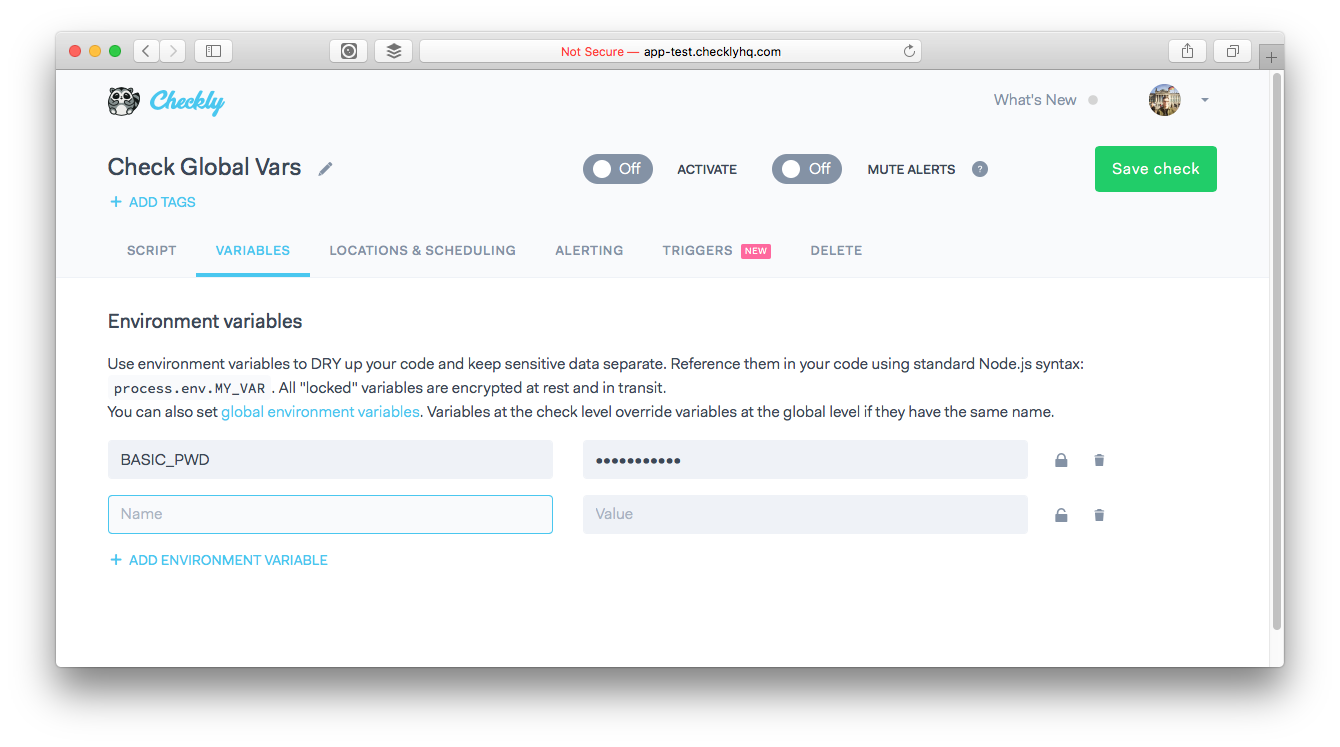
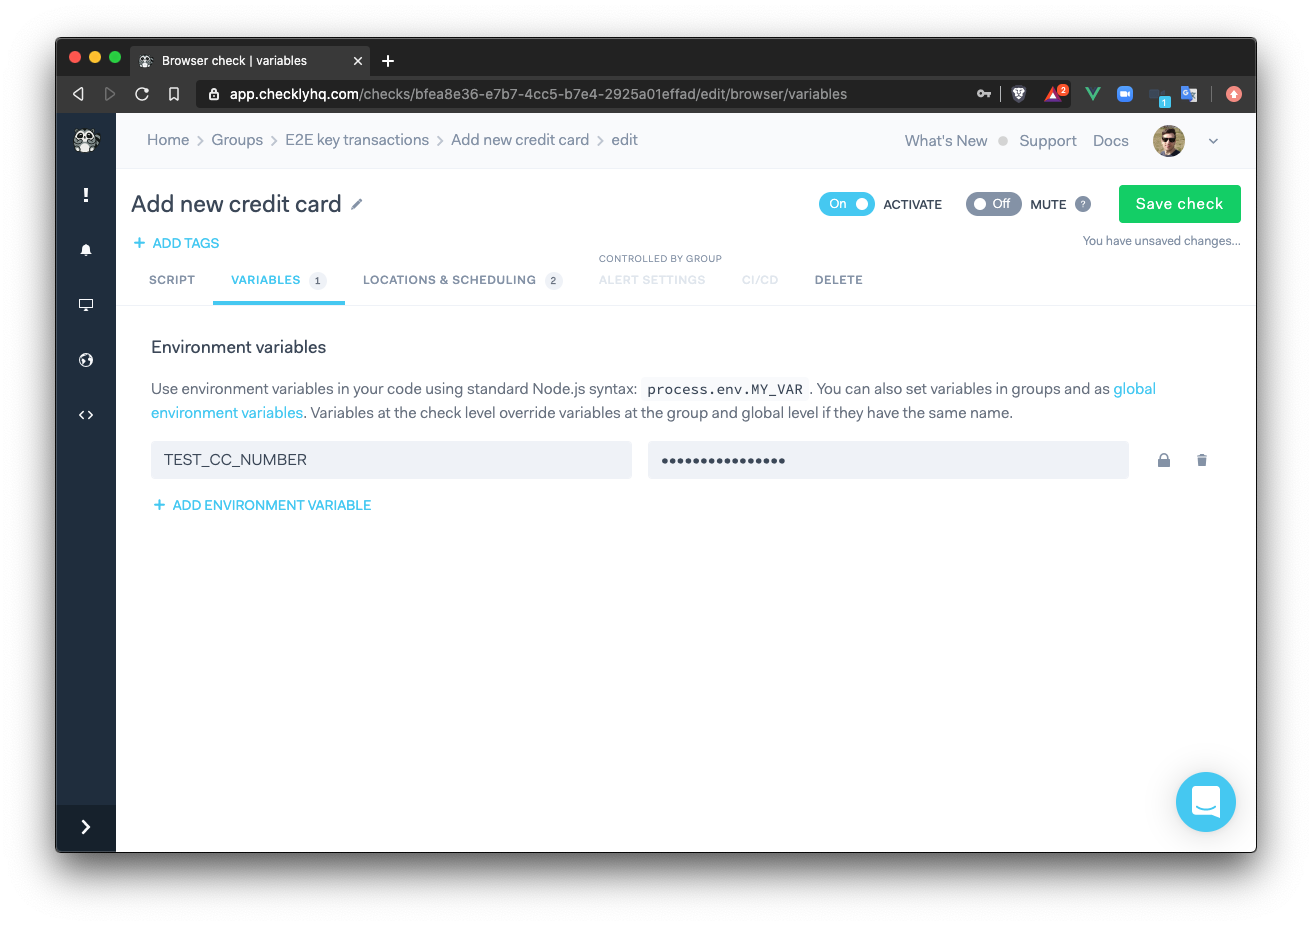
boyscout: outdated screenshots, typos, phrasing

diff --git a/site/content/docs/browser-checks/scraping-onpage-elements.md b/site/content/docs/browser-checks/scraping-onpage-elements.md
@@ -16,12 +16,12 @@ This is a two step process:
 2. Assert that it shows what you expect. 
 
 Puppeteer offers many ways to scrape elements like buttons, forms or any arbitrary HTML element. We've listed the most
-used ones below, together with some tips on how to use them effectively. In each 
+used ones below, together with some tips on how to use them effectively.
 
 ## Scraping text values
 
 Puppeteer's `page.$eval()` method is a very powerful way to actually run a selector query inside a web page. See the example
-below. Note, we are using the `chai.js` library for assertions here.
+below. Note: we are using the `chai.js` library for assertions here.
 
 ```javascript
 const puppeteer = require('puppeteer')
@@ -37,11 +37,11 @@ expect(name).to.equal("Hacker News")
 await browser.close()
 ```
 
-Ok, what's happening here
+Ok, let's break this down:
 
 1. We require all needed modules and load a page.
 2. We use `$page.eval()` and pass it two arguments: 1) a query selector string 2) a callback to handle the resulting element.
-3. We inspect the elements `textContent` property and use the `trim()` method to get rid of any trailing white space.
+3. We inspect the element's `textContent` property and use the `trim()` method to get rid of any trailing white space.
 4. We validate that indeed the name is as expected.
 
 > Some may want to use the `innerText` property here, but `textContent` is [actually better](https://stackoverflow.com/questions/35213147/difference-between-textcontent-vs-innertext)
@@ -53,7 +53,7 @@ Using the `page.$$()` (notice the two dollar signs) we can scrape an array of el
 when the query selector you are providing targets multiple similar elements on a page, say a list of links:
 
 ```javascript
-const puppeteer = require('puppeteer');
+const puppeteer = require('puppeteer')
 const expect = require('chai').expect
 
 const browser = await puppeteer.launch()
@@ -68,7 +68,7 @@ await browser.close()
 ```
 
 1. We select all `<a>` elements that have the CSS class `storylink`.
-2. We pass these into the callback and use the `map()` methods to return just the link text.
+2. We pass these into the callback and use the `map()` method to return just the link text.
 3. We slice of the first 10 items.
 
 
@@ -87,7 +87,7 @@ const page = await browser.newPage()
 
 await page.goto('https://duckduckgo.com/', { waitUntil: 'networkidle2' })  
 await page.type('#search_form_input_homepage', 'Puppeteer')
-const searchValue = await page.$eval('#search_form_input_homepage', el => el.value);
+const searchValue = await page.$eval('#search_form_input_homepage', el => el.value)
 expect(searchValue).to.equal("Puppeteer")
 
 
@@ -101,7 +101,7 @@ Scraping the values of other common form elements is pretty similar to scraping 
 there.
 
 ```javascript
-const puppeteer = require('puppeteer');
+const puppeteer = require('puppeteer')
 const browser = await puppeteer.launch()
 
 const page = await browser.newPage()
@@ -130,7 +130,7 @@ Key takeaways are:
 
 1. Checkboxes are mostly singular items, use the `page.$eval()` method.
 2. Radio buttons come in groups, use the `page.$$eval()` method and `.map()` over result.
-3. For selects, you are probably interested in the nested `option` elements, not so much the parent `select` element. use
+3. For selects, you are probably interested in the nested `option` elements, not so much the parent `select` element. Use
 the `page.$$eval()` method.
 
 ## Puppeteer built-in shortcuts
@@ -155,5 +155,4 @@ console.log("Page width is:", viewport.width)
 if (viewport.isMobile) {
   console.log("We're on mobile!")
 }
-
 ```

diff --git a/site/content/docs/browser-checks/file-system.md b/site/content/docs/browser-checks/file-system.md
@@ -8,23 +8,23 @@ menu:
 
 Checkly creates a sandboxed directory for each check. During the check you can use this directory to save or upload artifacts. This directory is destroyed after a check is finished.
 
-Due to this sandbox, certain nodejs variables are adapted to our platform and have values we set for them:
+Due to this sandbox, certain Node.js variables are adapted to our platform and have values we set for them:
 * `__dirname` will have the value of `/`
 * `__filename` will have the value of `/script.js`
 
-The values these variables correspond to might change in the future. Therefore, we recommend using `__dirname`, like `path.join(__dirname, 'example.png')` or relative paths, like `./example.png` or just `example.png`, while using the FS related operation. You can find an example code snipped below:
+The values these variables correspond to might change in the future. Therefore, we recommend using `__dirname`, like `path.join(__dirname, 'example.png')` or relative paths, like `./example.png` or just `example.png`, while using the file system-related operation. You can find an example code snipped below:
 
 ```javascript
-const path = require('path');
-const fs = require('fs');
-const puppeteer = require("puppeteer");
+const path = require('path')
+const fs = require('fs')
+const puppeteer = require("puppeteer")
 
-const browser = await puppeteer.launch();
-const page = await browser.newPage();
-const image = await page.goto('https://picsum.photos/200/300');
+const browser = await puppeteer.launch()
+const page = await browser.newPage()
+const image = await page.goto('https://picsum.photos/200/300')
 const imagePath = path.join(__dirname, 'example.jpg')
 const buffer = await image.buffer()
 fs.writeFileSync(imagePath, buffer)
 const readFileFromDisk = await fs.readFileSync(imagePath)
-await browser.close();
+await browser.close()
 ```

diff --git a/site/content/docs/browser-checks/screenshots.md b/site/content/docs/browser-checks/screenshots.md
@@ -9,7 +9,7 @@ menu:
 You can take up to ten screenshots per browser check. This is really handy when debugging a failure situation or just
 in general to get a comfy feeling everything is OK.  
 
-Ad a screenshot anywhere by using the following syntax in your script
+Add a screenshot anywhere by using the following syntax in your script:
  
 ```js
 await page.screenshot({ path: "my_screenshot.png" })
@@ -19,19 +19,19 @@ check results on every check run. You can download the full size screenshot by c
 
 Screenshots need to stick to the following specs:
 
-- Either `.png`, `jpeg` or `jpg` suffix
+- Either `.png`, `jpeg` or `jpg` suffix.
 - Allowed characters are `a-z A-Z 0-9 - _ @` So no whitespaces in the filename.
 
 ![take screenshots with Puppeteer](/docs/images/browser-checks/screenshots.png)
 
 
 Read more about the options for `page.screenshot()` like transparency, clipping and quality settings in 
-[the official Puppeteer docs](https://pptr.dev/#?product=Puppeteer&show=api-pagescreenshotoptions)
+[the official Puppeteer docs](https://pptr.dev/#?product=Puppeteer&show=api-pagescreenshotoptions).
 
 ## Full page screenshots
 
-Puppeteer allows you to screen shot a full page, including the content below the fold. This is very handy for snap shotting
-a long landing page or blog site. Just add the `fullPage: true`. Puppeteer will scroll and stitch the images together.
+Puppeteer allows you to capture a full-page screenshot, including the content below the fold. This is very handy for taking
+snapshots of a long landing page or blog site. Just add the `fullPage: true`. Puppeteer will scroll and stitch the images together.
 
 ```js
 await page.screenshot({ path: "my_screenshot.png", fullPage: true })

diff --git a/site/content/docs/browser-checks/variables.md b/site/content/docs/browser-checks/variables.md
@@ -13,7 +13,7 @@ You should therefore **replace any confidential data in your browser check scrip
 
 ## Managing variables
 
-For browser checks, you can create environment variables at two hierarchical levels:
+For browser checks, you can create environment variables at three hierarchical levels:
 
 - **Check** level
 - **Group** level
@@ -24,13 +24,15 @@ encrypted at rest and in flight on our back end and is only decrypted when neede
 
 ![add local variables](/docs/images/browser-checks/add-local-variable.png)
 
-Group variables are added on the **Variables** tab in a [group](/docs/groups) . The variables stored here are accessible 
+Group variables are added on the **Variables** tab in a [group](/docs/groups). The variables stored here are accessible 
 only in the group context.
+
+![add group variables](/docs/images/api-checks/add-group-variable.png)
 
 Global variables are added on the **Variables** tab in the **Account** section. The variables stored here are globally accessible 
 throughout Checkly, hence the "Global environment variables" title. 
 
-![add global variables](/docs/images/api-checks/add-variables.png)
+![add global variables](/docs/images/api-checks/add-global-variable.png)
 
 {{<info >}}
 Whenever possible, store variables at the global level. This DRY's up your code.
